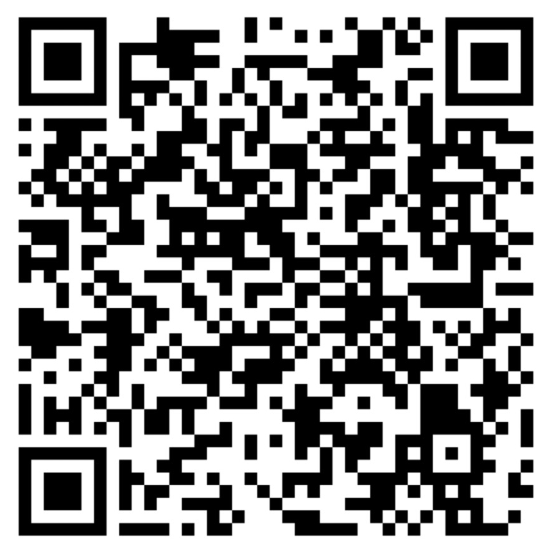
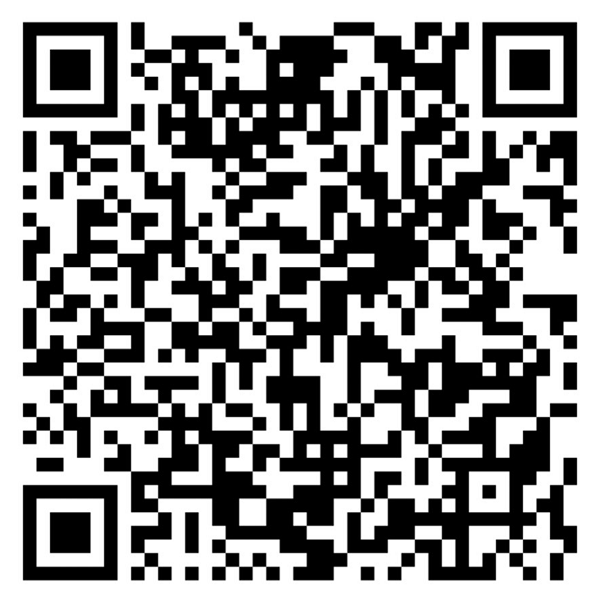
Add new dingtalk group.

diff --git a/content/zh/awesome/_index.md b/content/zh/awesome/_index.md
@@ -77,14 +77,15 @@ title: "Awesome SOFA"
 - 微信
   - 公众号：金融级分布式架构（Antfin_SOFA）：致力于打造一流的分布式技术在金融场景应用实践的技术交流平台，专注于交流金融科技行业内最前沿、可供参考的技术方案与实施路线。
     
-        <img alt="Wechat" src="https://gw.alipayobjects.com/mdn/sofastack/afts/img/A*LVCnR6KtEfEAAAAAAAAAAABjARQnAQ" height="250" />
+    <img alt="Wechat" src="https://gw.alipayobjects.com/mdn/sofastack/afts/img/A*LVCnR6KtEfEAAAAAAAAAAABjARQnAQ" height="250" />
   
 - 钉钉
   - 钉钉交流群：
       - ~~金融级分布式架构 SOFAStack 1群，群号：23127468~~ 已满
-      - 金融级分布式架构 SOFAStack 2群，群号：23195297
+      - ~~金融级分布式架构 SOFAStack 2群，群号：23195297~~ 已满
+      - 金融级分布式架构 SOFAStack 3群，群号：23390449
 
-          <img alt="DingTalk" src="https://gw.alipayobjects.com/mdn/sofastack/afts/img/A*honqQrxaN3sAAAAAAAAAAABjARQnAQ" height="250" />
+        <img alt="DingTalk" src="https://gw.alipayobjects.com/mdn/sofastack/afts/img/A*ysJoQ78q3ewAAAAAAAAAAABkARQnAQ" height="250" />
     
   - 钉钉交流群：SOFAStack 金牌用户服务群，如果您已经在生产环境使用了 SOFAStack 相关组件，还请告知我们，我们将会邀请您加入到此群中，以便更加快捷的沟通和更加高效的线上使用问题支持。
 - [新浪微博](https://weibo.com/sofastack)

diff --git a/content/en/blog/hello-sofastack/index.md b/content/en/blog/hello-sofastack/index.md
@@ -54,9 +54,10 @@ More projects in: [github/sofastack](https://github.com/sofastack)
   - DingTalk Group:
 
     - ~~「SOFAStack 1」 No: 23127468~~ Group is Full
-    - 「SOFAStack 2」 No: 23195297
+    - ~~「SOFAStack 2」 No: 23195297~~ Group is Full
+    - 「SOFAStack 3」 No: 23390449
 
-    <img alt="DingTalk" src="https://gw.alipayobjects.com/mdn/sofastack/afts/img/A*honqQrxaN3sAAAAAAAAAAABjARQnAQ" height="250" />
+    <img alt="DingTalk" src="https://gw.alipayobjects.com/mdn/sofastack/afts/img/A*ysJoQ78q3ewAAAAAAAAAAABkARQnAQ" height="250" />
 
   - DingTalk Group:「SOFAStack Online service」, If you have used any SOFAStack related components in a production environment, please let us know, and we will invite you to join this group for faster communication and more efficient use of problem support online.
 
